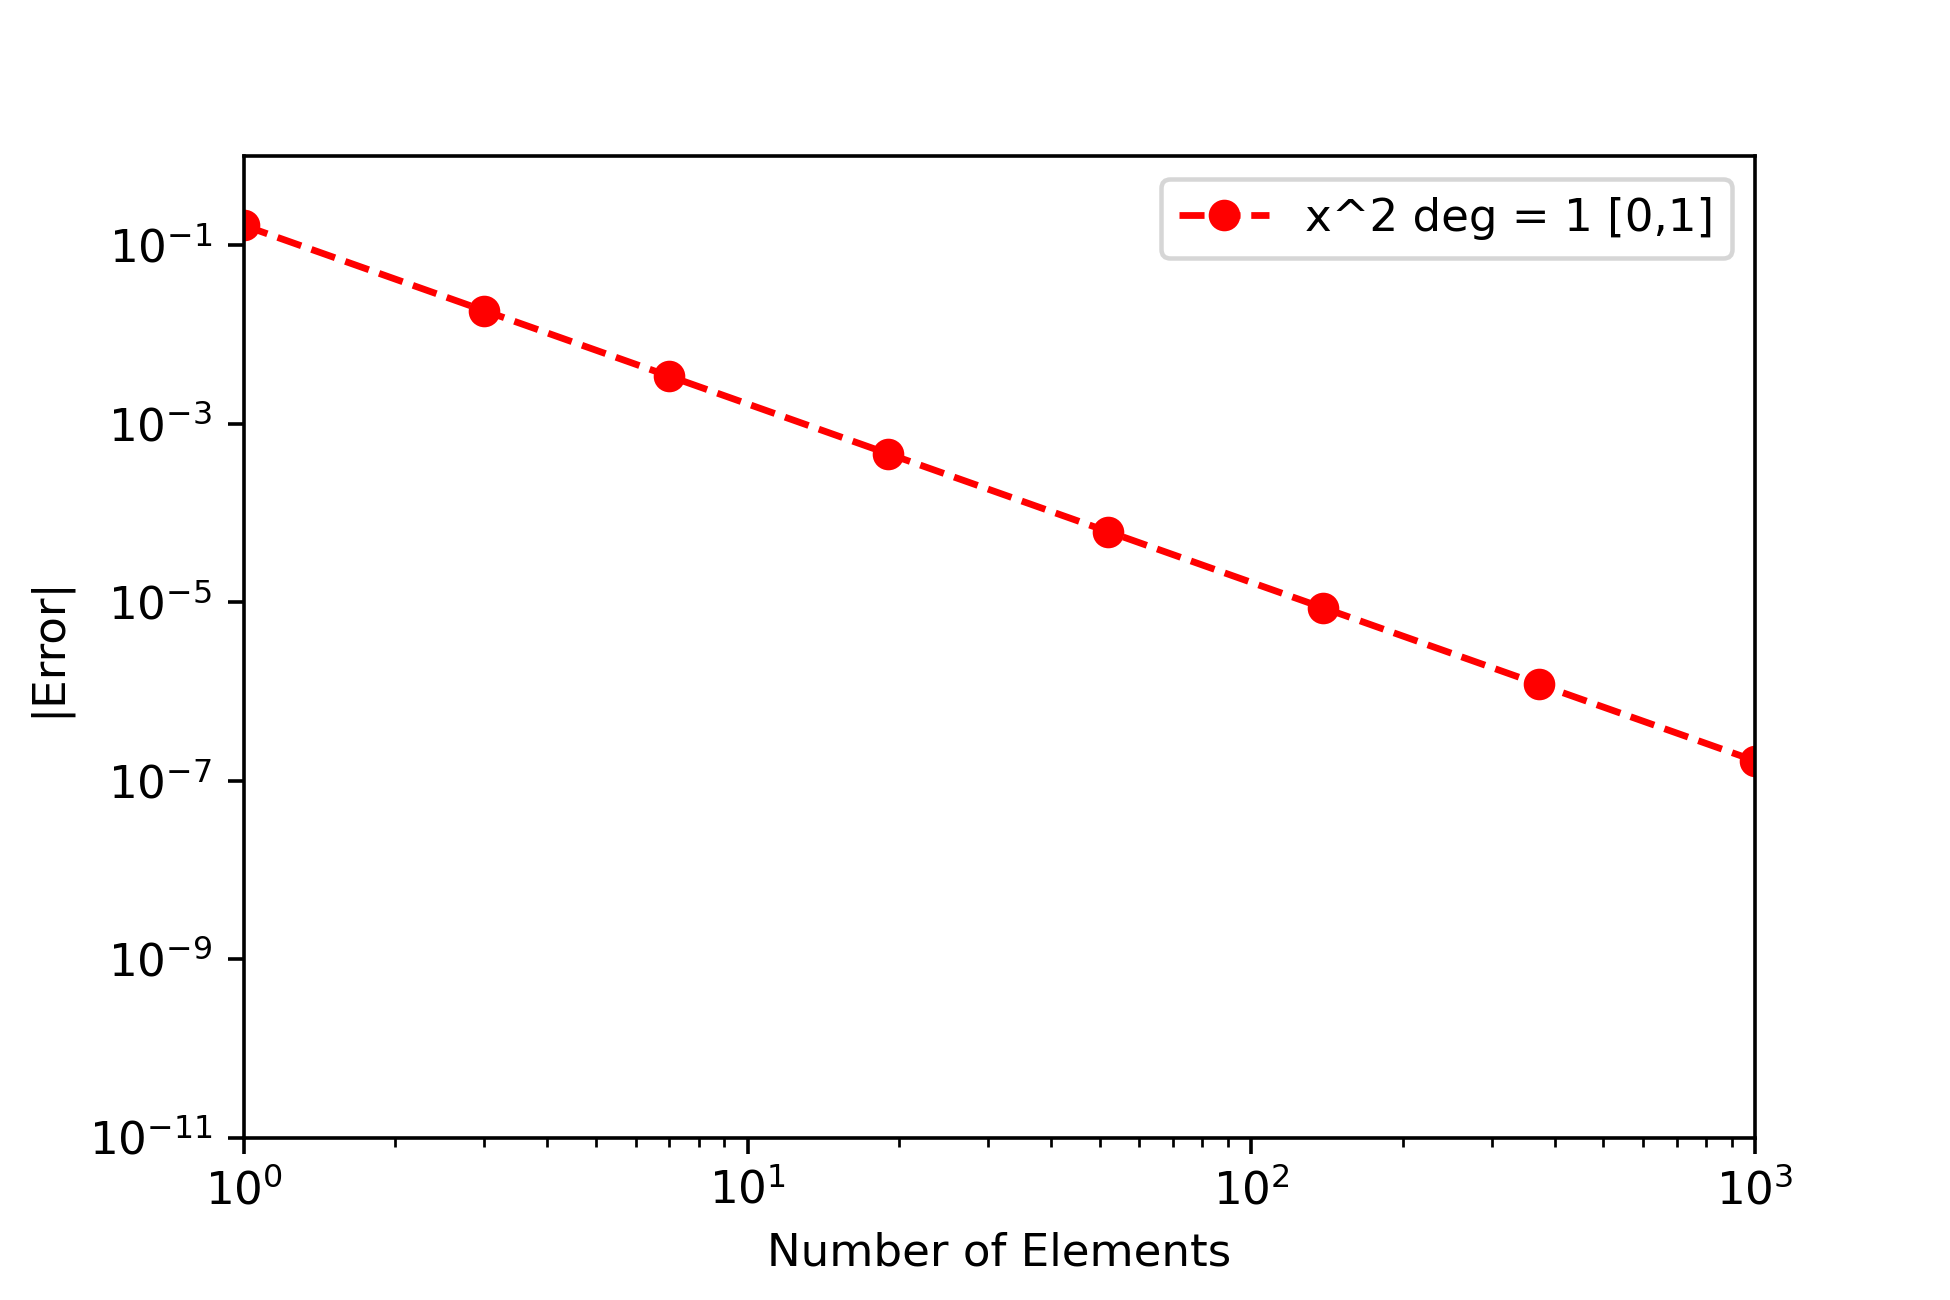
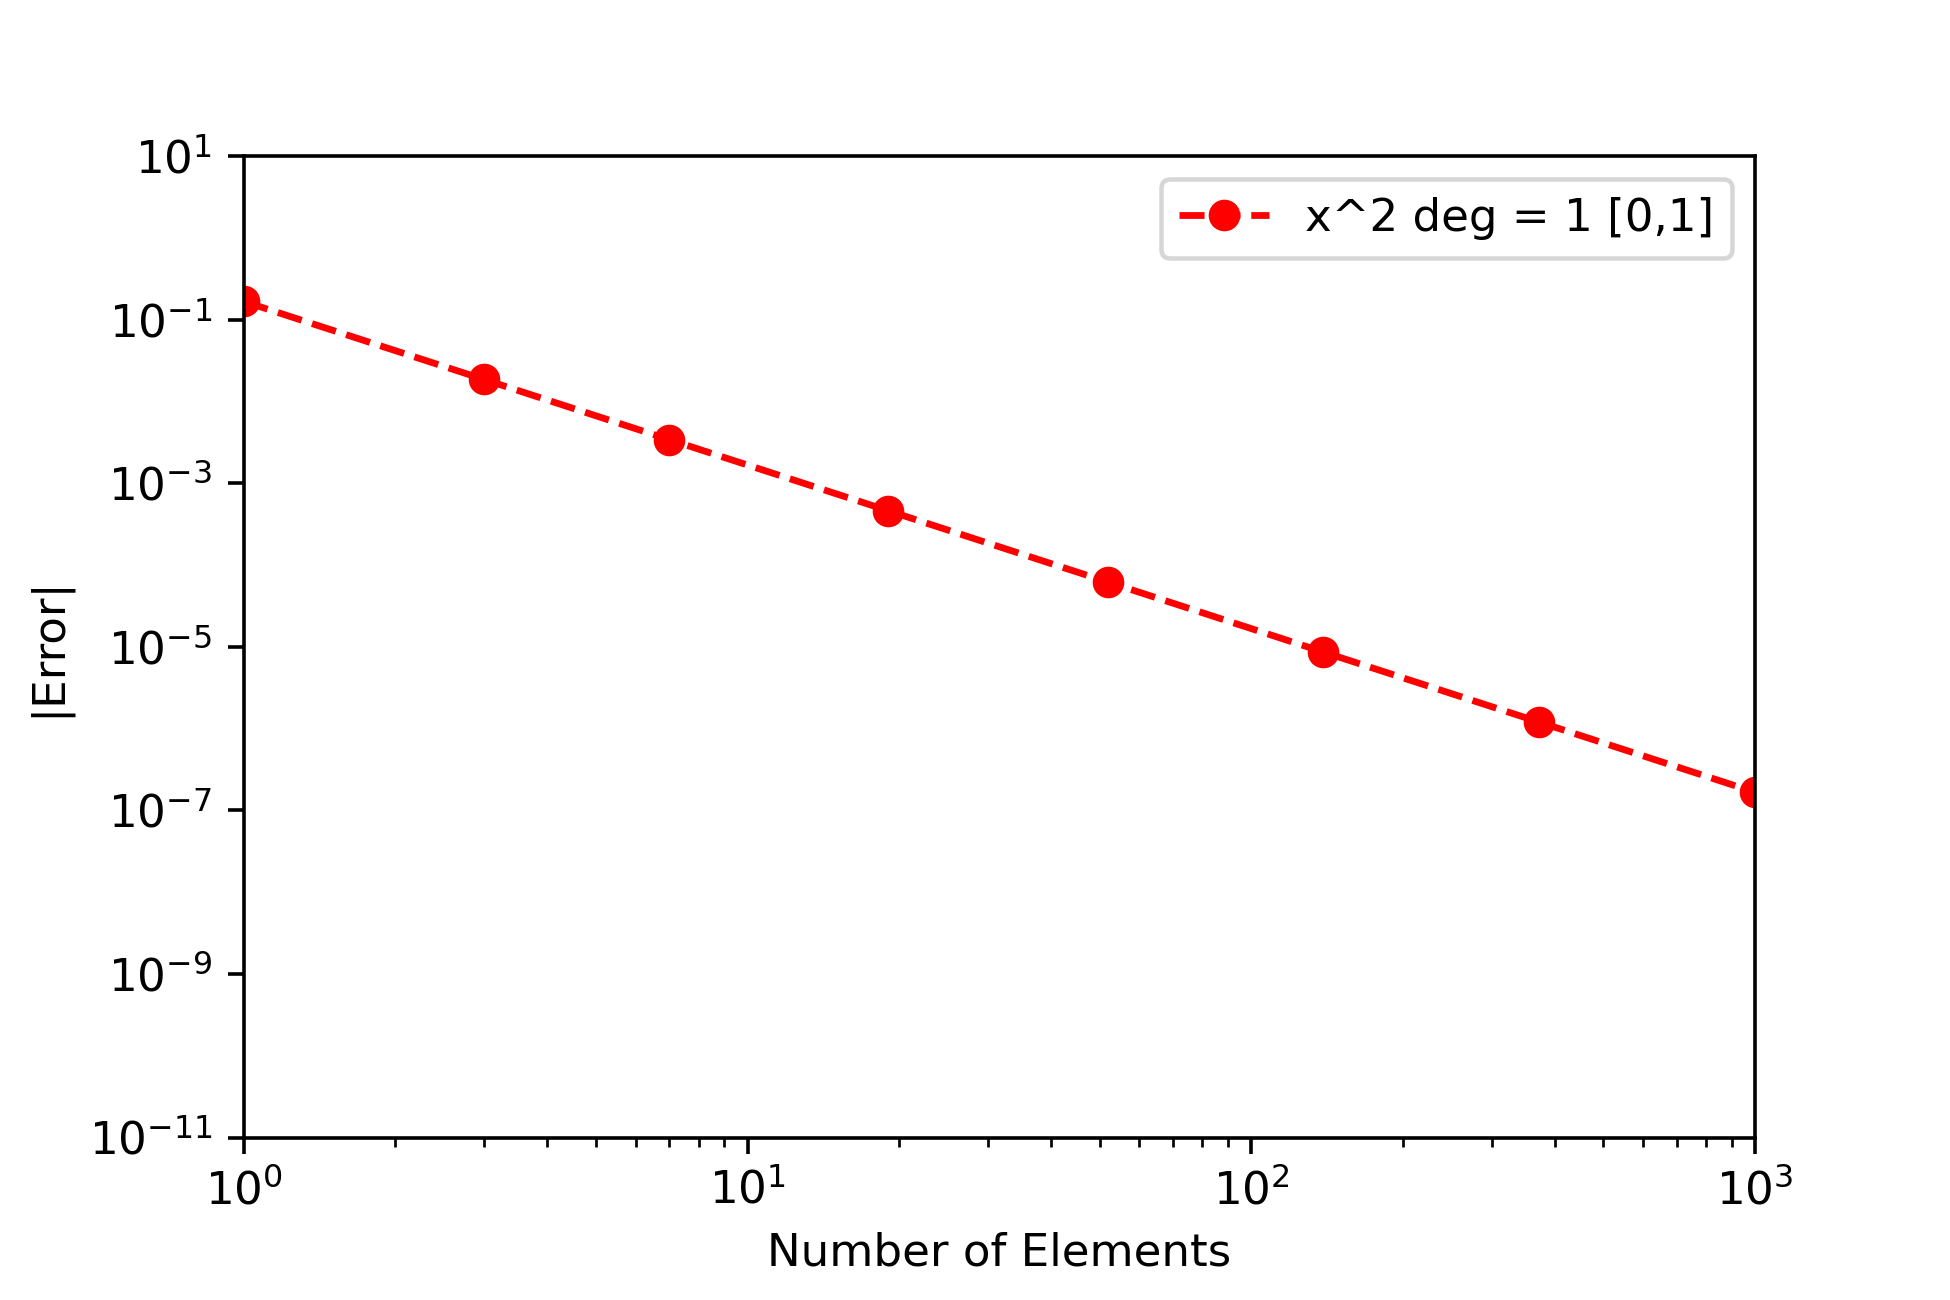
thru q57

diff --git a/Splines 3.1/q57.py b/Splines 3.1/q57.py
@@ -1,0 +1,105 @@
+# main splines 3.1
+# author: ryan melander
+
+import unittest
+import numpy
+
+
+# generate mesh with support for element wise specification of polynomial degree
+# degree input as array where length = num_elems and each entry is the degree of
+# that element
+
+def generateMesh(xmin,xmax,degree):
+    ien_array = []
+    key = []
+    last_node = 0
+    num_elems = len(degree)
+    node_coords = []
+    last_coord = xmin
+    domain = xmax - xmin
+    for i in range(0, num_elems):
+        # ien_array
+        ien = numpy.linspace(last_node, degree[i] + last_node, degree[i] + 1)
+        ien = list(ien.astype(int))
+        last_node = ien[-1]
+        key.append(i)
+        ien_array.append(ien)
+        # node_coords
+        elem_coords = list(numpy.linspace(last_coord, (domain/num_elems) + last_coord, degree[i] + 1))
+        last_coord = elem_coords[-1]
+        node_coords.extend(elem_coords)
+    ien_array = dict(zip(key, ien_array))
+    node_coords = numpy.unique(numpy.asarray(node_coords))
+    return node_coords, ien_array
+
+
+# testing
+node_coords, ien_array = generateMesh(0, 4, [1,2,3,4])
+
+
+
+class Test_generateMesh( unittest.TestCase ):
+    def test_make_1_linear_elem( self ):
+        gold_node_coords = numpy.array( [ 0.0, 1.0 ] )
+        gold_ien_array = { 0: [ 0, 1 ] }
+        node_coords, ien_array = generateMesh( xmin = 0.0, xmax = 1.0, degree = [ 1 ] )
+        self.assertIsInstance( obj = node_coords, cls = numpy.ndarray )
+        self.assertIsInstance( obj = ien_array, cls = dict )
+        self.assertTrue( numpy.allclose( node_coords, gold_node_coords ) )
+        self.assertDictEqual( d1 = gold_ien_array, d2 = ien_array )
+    
+    def test_make_1_quadratic_elem( self ):
+        gold_node_coords = numpy.array( [ 0.0, 0.5, 1.0 ] )
+        gold_ien_array = { 0: [ 0, 1, 2 ] }
+        node_coords, ien_array = generateMesh( xmin = 0.0, xmax = 1.0, degree = [ 2 ] )
+        self.assertIsInstance( obj = node_coords, cls = numpy.ndarray )
+        self.assertIsInstance( obj = ien_array, cls = dict )
+        self.assertTrue( numpy.allclose( node_coords, gold_node_coords ) )
+        self.assertDictEqual( d1 = gold_ien_array, d2 = ien_array )
+    
+    def test_make_2_linear_elems( self ):
+        gold_node_coords = numpy.array( [ 0.0, 0.5, 1.0 ] )
+        gold_ien_array = { 0: [ 0, 1 ], 1: [ 1, 2 ] }
+        node_coords, ien_array = generateMesh( xmin = 0.0, xmax = 1.0, degree = [ 1, 1 ] )
+        self.assertIsInstance( obj = node_coords, cls = numpy.ndarray )
+        self.assertIsInstance( obj = ien_array, cls = dict )
+        self.assertTrue( numpy.allclose( node_coords, gold_node_coords ) )
+        self.assertDictEqual( d1 = gold_ien_array, d2 = ien_array )
+    
+    def test_make_2_quadratic_elems( self ):
+        gold_node_coords = numpy.array( [ 0.0, 0.25, 0.5, 0.75, 1.0 ] )
+        gold_ien_array = { 0: [ 0, 1, 2 ], 1: [ 2, 3, 4 ] }
+        node_coords, ien_array = generateMesh( xmin = 0.0, xmax = 1.0, degree = [ 2, 2 ] )
+        self.assertIsInstance( obj = node_coords, cls = numpy.ndarray )
+        self.assertIsInstance( obj = ien_array, cls = dict )
+        self.assertTrue( numpy.allclose( node_coords, gold_node_coords ) )
+        self.assertDictEqual( d1 = gold_ien_array, d2 = ien_array )
+    
+    def test_make_4_linear_elems( self ):
+        gold_node_coords = numpy.array( [ 0.0, 0.25, 0.5, 0.75, 1.0 ] )
+        gold_ien_array = { 0: [ 0, 1 ], 1: [ 1, 2 ], 2: [ 2, 3 ], 3: [ 3, 4 ] }
+        node_coords, ien_array = generateMesh( xmin = 0.0, xmax = 1.0, degree = [ 1, 1, 1, 1 ] )
+        self.assertIsInstance( obj = node_coords, cls = numpy.ndarray )
+        self.assertIsInstance( obj = ien_array, cls = dict )
+        self.assertTrue( numpy.allclose( node_coords, gold_node_coords ) )
+        self.assertDictEqual( d1 = gold_ien_array, d2 = ien_array )
+    
+    def test_make_4_quadratic_elems( self ):
+        gold_node_coords = numpy.array( [ 0.0, 0.125, 0.25, 0.375, 0.5, 0.625, 0.75, 0.875, 1.0 ] )
+        gold_ien_array = { 0: [ 0, 1, 2 ], 1: [ 2, 3, 4 ], 2: [ 4, 5, 6 ], 3: [ 6, 7, 8 ] }
+        node_coords, ien_array = generateMesh( xmin = 0.0, xmax = 1.0, degree = [ 2, 2, 2, 2 ] )
+        self.assertIsInstance( obj = node_coords, cls = numpy.ndarray )
+        self.assertIsInstance( obj = ien_array, cls = dict )
+        self.assertTrue( numpy.allclose( node_coords, gold_node_coords ) )
+        self.assertDictEqual( d1 = gold_ien_array, d2 = ien_array )
+    
+    def test_make_4_p_refine_elems( self ):
+        gold_node_coords = numpy.array( [ 0.0, 1.0, 1.5, 2.0, (2.0 + 1.0/3.0), (2.0 + 2.0/3.0), 3.0, 3.25, 3.5, 3.75, 4.0 ] )
+        gold_ien_array = { 0: [ 0, 1 ], 1: [ 1, 2, 3 ], 2: [ 3, 4, 5, 6 ], 3: [ 6, 7, 8, 9, 10 ] }
+        node_coords, ien_array = generateMesh( xmin = 0.0, xmax = 4.0, degree = [ 1, 2, 3, 4 ] )
+        self.assertIsInstance( obj = node_coords, cls = numpy.ndarray )
+        self.assertIsInstance( obj = ien_array, cls = dict )
+        self.assertTrue( numpy.allclose( node_coords, gold_node_coords ) )
+        self.assertDictEqual( d1 = gold_ien_array, d2 = ien_array )
+
+unittest.main()

diff --git a/Splines 3.1/q55.py b/Splines 3.1/q55.py
@@ -3,6 +3,7 @@
 
 import scipy
 import numpy
+import math
 from q54 import evaluateSolutionAt
 import mesh
 import basis
@@ -36,7 +37,7 @@ error_array = numpy.asarray(error_array)
 plt.figure(0)
 plt.plot(elems_array, error_array, '--or', label = 'x^2 deg = 1 [0,1]')
 plt.xlim(1, 1000)
-plt.ylim(1e-11, 1)
+plt.ylim(1e-11, 10)
 plt.legend(loc="upper right")
 plt.yscale('log')
 plt.xscale('log')
@@ -65,10 +66,67 @@ error_array = numpy.asarray(error_array)
 plt.figure(1)
 plt.plot(elems_array, error_array, '--or', label = 'x^3 deg = 2 [0,1]')
 plt.xlim(1, 1000)
-plt.ylim(1e-11, 1)
+plt.ylim(1e-11, 10)
 plt.legend(loc="upper right")
 plt.yscale('log')
 plt.xscale('log')
 plt.xlabel('Number of Elements')
 plt.ylabel('|Error|')
 plt.savefig('fig_1', dpi=325)
+
+
+# linear, sin(pi*x), [-1,1]
+target_fun = lambda x : math.sin(math.pi*x)
+degree = 1
+domain = [-1,1]
+eval_basis = basis.evalLagrangeBasis1D
+elems_array = []
+error_array = []
+n = numpy.round(numpy.logspace(0, 3, 8), 0)
+for i in range(0,8):
+    num_elems = int(n[i])
+    elems_array.append(num_elems)
+    coeff, node_coords, ien_array = mesh.computeSolution(target_fun, domain, num_elems, degree)
+    fit_error, residual = computeFitError( target_fun, coeff, node_coords, ien_array, eval_basis )
+    error_array.append(fit_error)
+elems_array = numpy.asarray(elems_array)
+error_array = numpy.asarray(error_array)
+# Plot
+plt.figure(2)
+plt.plot(elems_array, error_array, '--or', label = 'sin(pi*x) deg = 1 [-1,1]')
+plt.xlim(1, 1000)
+plt.ylim(1e-11, 10)
+plt.legend(loc="upper right")
+plt.yscale('log')
+plt.xscale('log')
+plt.xlabel('Number of Elements')
+plt.ylabel('|Error|')
+plt.savefig('fig_2', dpi=325)
+
+# quadratic, sin(pi*x), [-1,1]
+target_fun = lambda x : math.sin(math.pi*x)
+degree = 2
+domain = [-1,1]
+eval_basis = basis.evalLagrangeBasis1D
+elems_array = []
+error_array = []
+n = numpy.round(numpy.logspace(0, 3, 8), 0)
+for i in range(0,8):
+    num_elems = int(n[i])
+    elems_array.append(num_elems)
+    coeff, node_coords, ien_array = mesh.computeSolution(target_fun, domain, num_elems, degree)
+    fit_error, residual = computeFitError( target_fun, coeff, node_coords, ien_array, eval_basis )
+    error_array.append(fit_error)
+elems_array = numpy.asarray(elems_array)
+error_array = numpy.asarray(error_array)
+# Plot
+plt.figure(3)
+plt.plot(elems_array, error_array, '--or', label = 'sin(pi*x) deg = 2 [-1,1]')
+plt.xlim(1, 1000)
+plt.ylim(1e-11, 10)
+plt.legend(loc="upper right")
+plt.yscale('log')
+plt.xscale('log')
+plt.xlabel('Number of Elements')
+plt.ylabel('|Error|')
+plt.savefig('fig_3', dpi=325)

diff --git a/Splines 3.1/mesh.py b/Splines 3.1/mesh.py
@@ -3,25 +3,39 @@
 
 import numpy
 
-def generateMesh(xmin, xmax, num_elems, degree):
-    if degree <= 0 or degree >= 3:
-        raise ValueError('degree_MUST_BE_1=LINEAR_OR_2=QUADRATIC')
-    elif degree == 1:
-        node_coords = numpy.linspace(xmin, xmax, num_elems + 1)
-        n = len(node_coords) - 1
-        ien_array = []
-        for i in range(0, n):
-            ien = numpy.array([i, i + 1])
-            ien_array.append(ien)
-        ien_array = numpy.asarray(ien_array)
-    elif degree == 2:
-        node_coords = numpy.linspace(xmin, xmax, 2*num_elems + 1)
-        n = len(node_coords) - 1
-        ien_array = []
-        for i in range(0, n, 2):
-            ien = numpy.array([i, i + 1, i + 2])
-            ien_array.append(ien)
-        ien_array = numpy.asarray(ien_array)
+def generateMesh(xmin,xmax,num_elems,degree):
+    if degree <= 0:
+        raise ValueError('degree_MUST_BE_>=_1')
+    ien_array = []
+    node_coords = numpy.linspace(xmin,xmax,(degree*num_elems)+1)
+    for i in range(0,len(node_coords)-1,degree):
+        ien = numpy.linspace(i,i+degree,degree+1)
+        ien = ien.astype(int)
+        ien = list(ien)
+        ien_array.append(ien)
+    ien_array = numpy.asarray(ien_array)
+    return node_coords, ien_array
+
+
+def generateMeshElemWise(xmin,xmax,degree):
+    ien_array = []
+    key = []
+    last_node = 0
+    num_elems = len(degree)
+    node_coords = []
+    last_coord = xmin
+    domain = xmax - xmin
+    for i in range(0, num_elems):
+        ien = numpy.linspace(last_node, degree[i] + last_node, degree[i] + 1)
+        ien = list(ien.astype(int))
+        last_node = ien[-1]
+        key.append(i)
+        ien_array.append(ien)
+        elem_coords = list(numpy.linspace(last_coord, (domain/num_elems) + last_coord, degree[i] + 1))
+        last_coord = elem_coords[-1]
+        node_coords.extend(elem_coords)
+    ien_array = dict(zip(key, ien_array))
+    node_coords = numpy.unique(numpy.asarray(node_coords))
     return node_coords, ien_array
 
 

diff --git a/Splines 3.1/q52.py b/Splines 3.1/q52.py
@@ -4,27 +4,20 @@
 import unittest
 import numpy
 
-
-def generateMesh1D(xmin, xmax, num_elems, degree):
-    if degree <= 0 or degree >= 3:
-        raise ValueError('degree_MUST_BE_1=LINEAR_OR_2=QUADRATIC')
-    elif degree == 1:
-        node_coords = numpy.linspace(xmin, xmax, num_elems + 1)
-        n = len(node_coords) - 1
-        ien_array = []
-        for i in range(0, n):
-            ien = numpy.array([i, i + 1])
-            ien_array.append(ien)
-        ien_array = numpy.asarray(ien_array)
-    elif degree == 2:
-        node_coords = numpy.linspace(xmin, xmax, 2*num_elems + 1)
-        n = len(node_coords) - 1
-        ien_array = []
-        for i in range(0, n, 2):
-            ien = numpy.array([i, i + 1, i + 2])
-            ien_array.append(ien)
-        ien_array = numpy.asarray(ien_array)
+        
+def generateMesh1D(xmin,xmax,num_elems,degree):
+    if degree <= 0:
+        raise ValueError('degree_MUST_BE_>=_1')
+    ien_array = []
+    node_coords = numpy.linspace(xmin,xmax,(degree*num_elems)+1)
+    for i in range(0,len(node_coords)-1,degree):
+        ien = numpy.linspace(i,i+degree,degree+1)
+        ien = ien.astype(int)
+        ien = list(ien)
+        ien_array.append(ien)
+    ien_array = numpy.asarray(ien_array)
     return node_coords, ien_array
+            
 
 
 

diff --git a/Splines 3.1/q56.py b/Splines 3.1/q56.py
@@ -1,0 +1,40 @@
+# main splines 3.1
+# author: ryan melander
+
+# import scipy
+import numpy
+import math
+from q54 import evaluateSolutionAt
+import mesh
+import basis
+import matplotlib.pyplot as plt
+
+# quadratic, sin(pi*x), [-1,1]
+target_fun = lambda x : math.sin(math.pi*x)
+degree = 2
+domain = [-1,1]
+eval_basis = basis.evalLagrangeBasis1D
+num_elems = 3
+x = numpy.linspace(-1,1,7)
+solns = []
+for i in range(0, len(x)):
+    xx = x[i]
+    coeff, node_coords, ien_array = mesh.computeSolution(target_fun, domain, num_elems, degree)
+    sol_at_point = evaluateSolutionAt(xx, coeff, node_coords, ien_array, eval_basis)
+    solns.append(sol_at_point)
+    
+plt.figure(0)
+plt.plot(x, solns, '--ok', label = 'sin(pi*x)')
+x1 = numpy.linspace(-1,1,100)
+y1 = numpy.sin(numpy.pi*x1)
+plt.plot(x1, y1, '-r')
+for i in range(0, len(x)-1, 2):
+    plt.axvline(x[i], color = 'k', linestyle = '--')
+# matplotlib.pyplot.axvline(x, color, xmin, xmax, linestyle)
+plt.plot()
+plt.xlim(-1, 1)
+plt.ylim(-1, 1)
+plt.legend(loc="upper left")
+plt.xlabel('Number of Elements')
+plt.ylabel('|Error|')
+plt.savefig('fig_q56', dpi=325)
